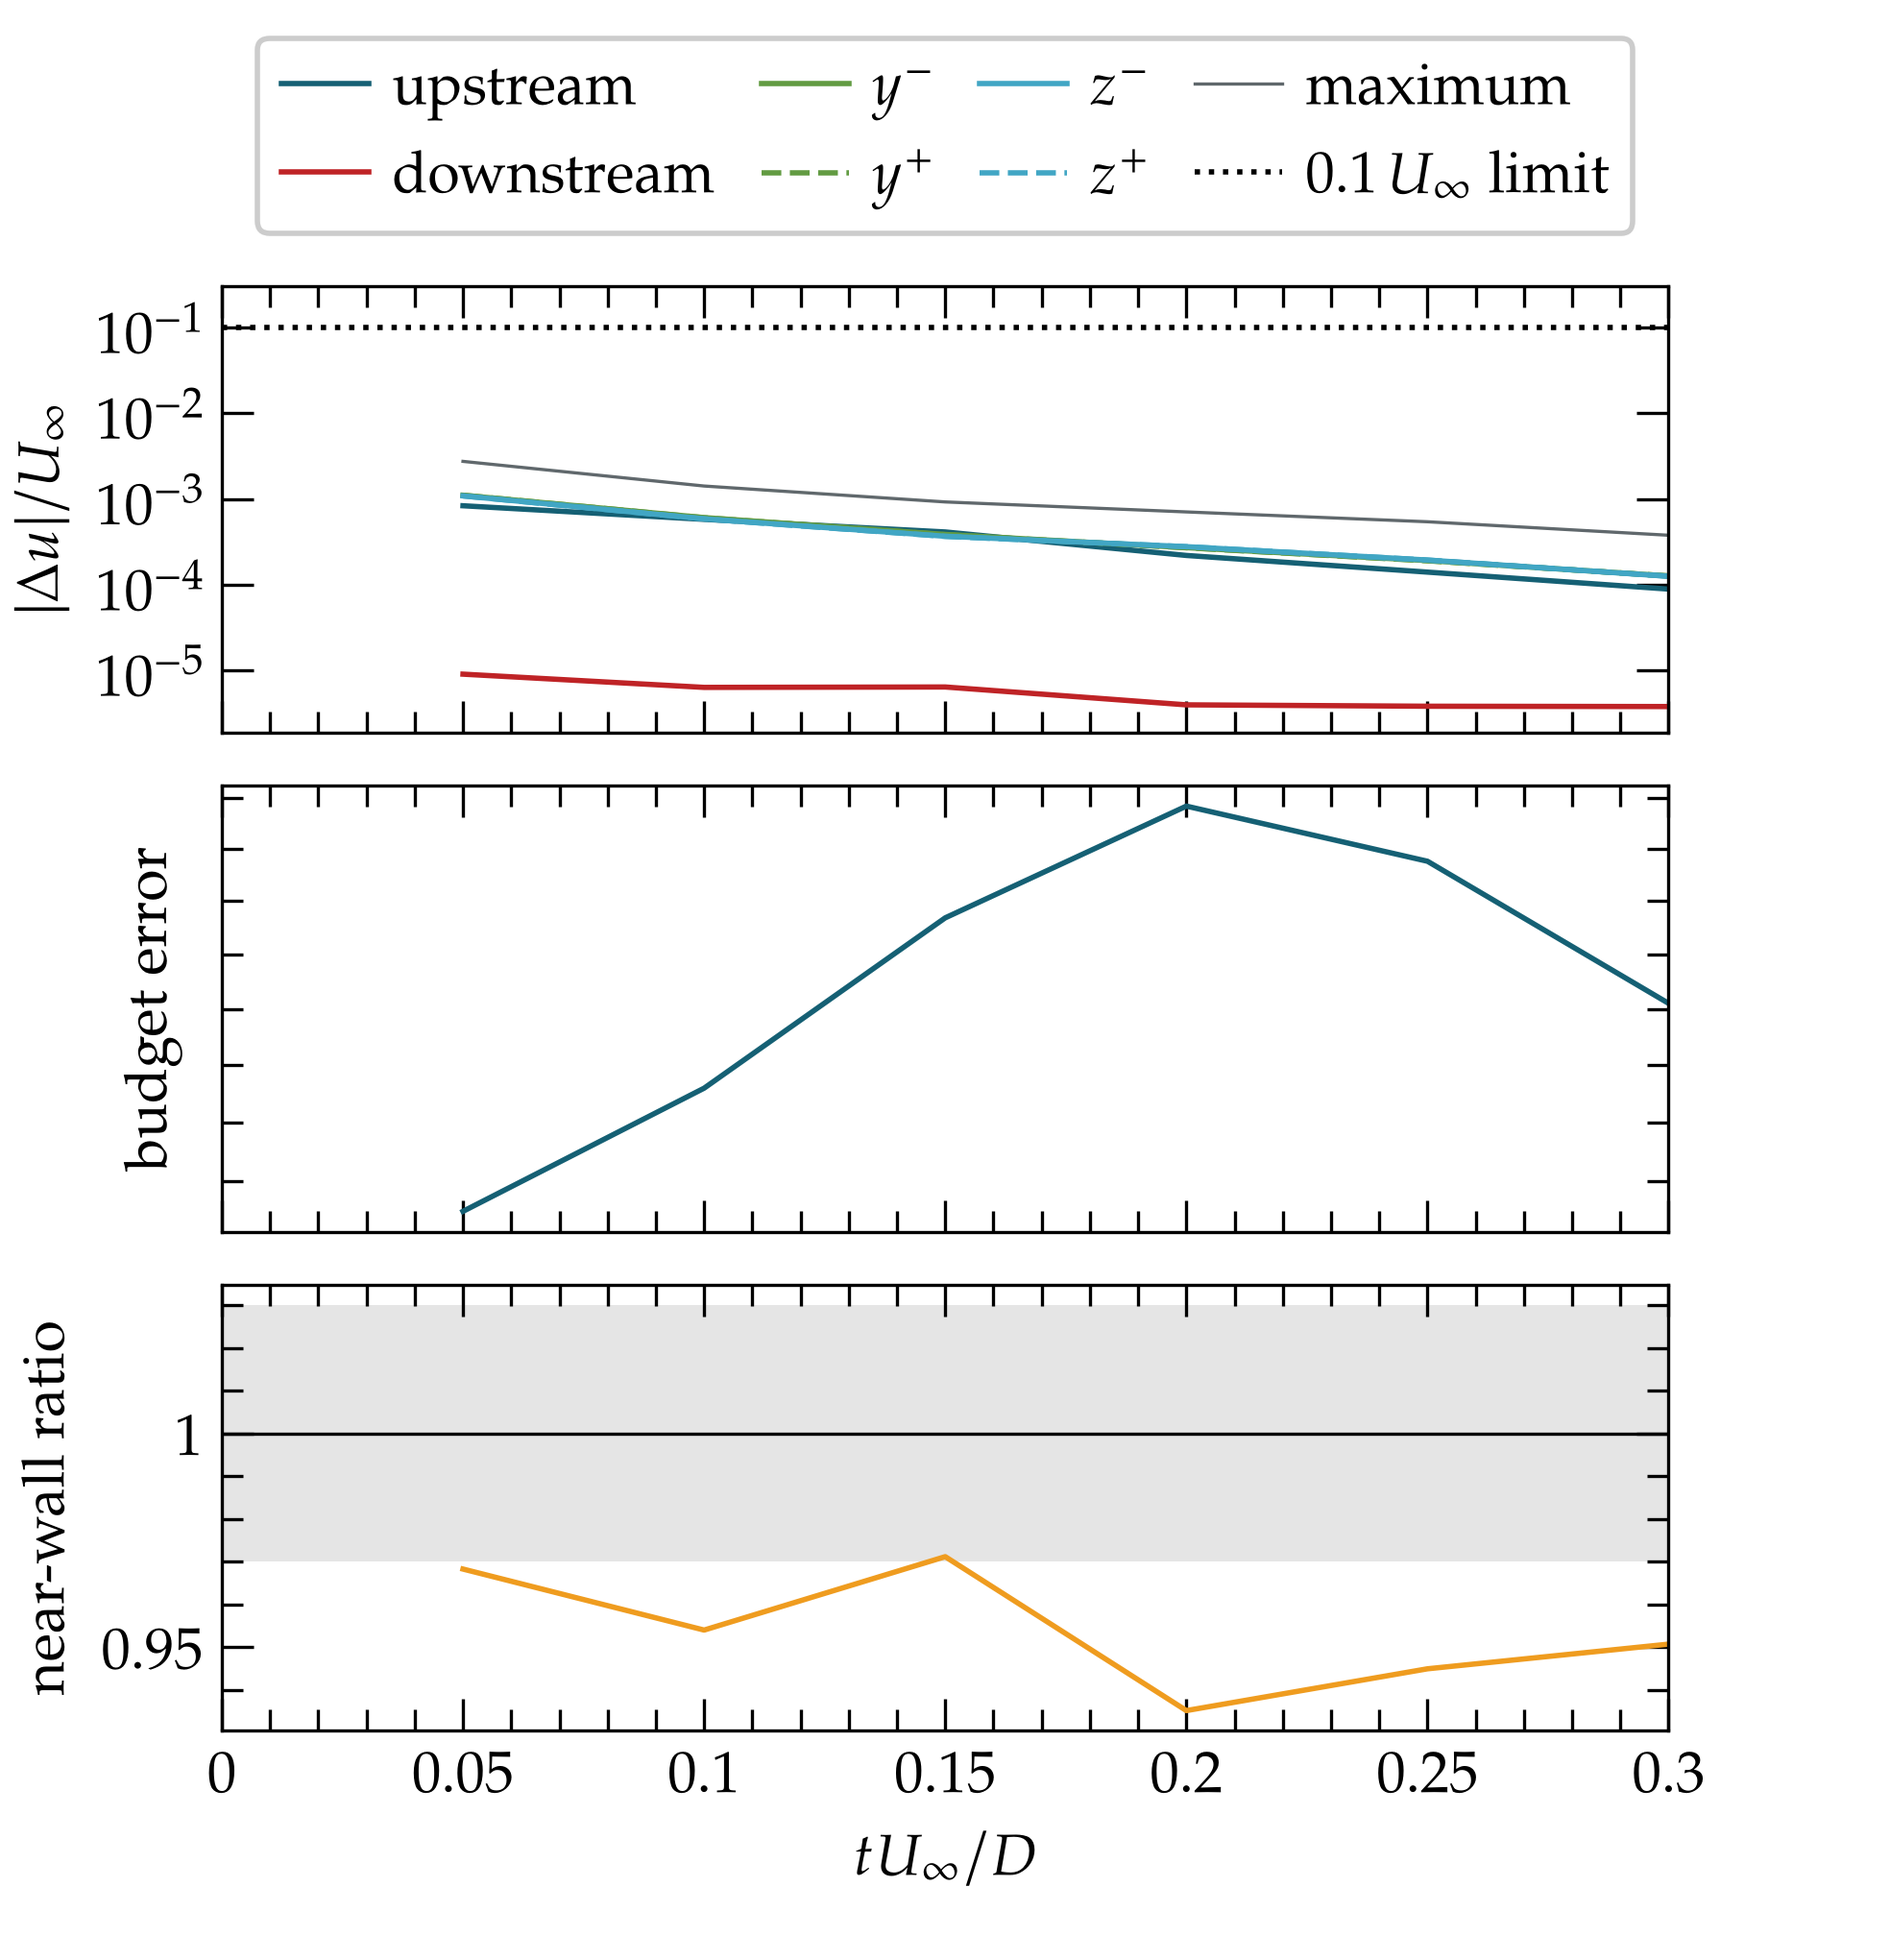
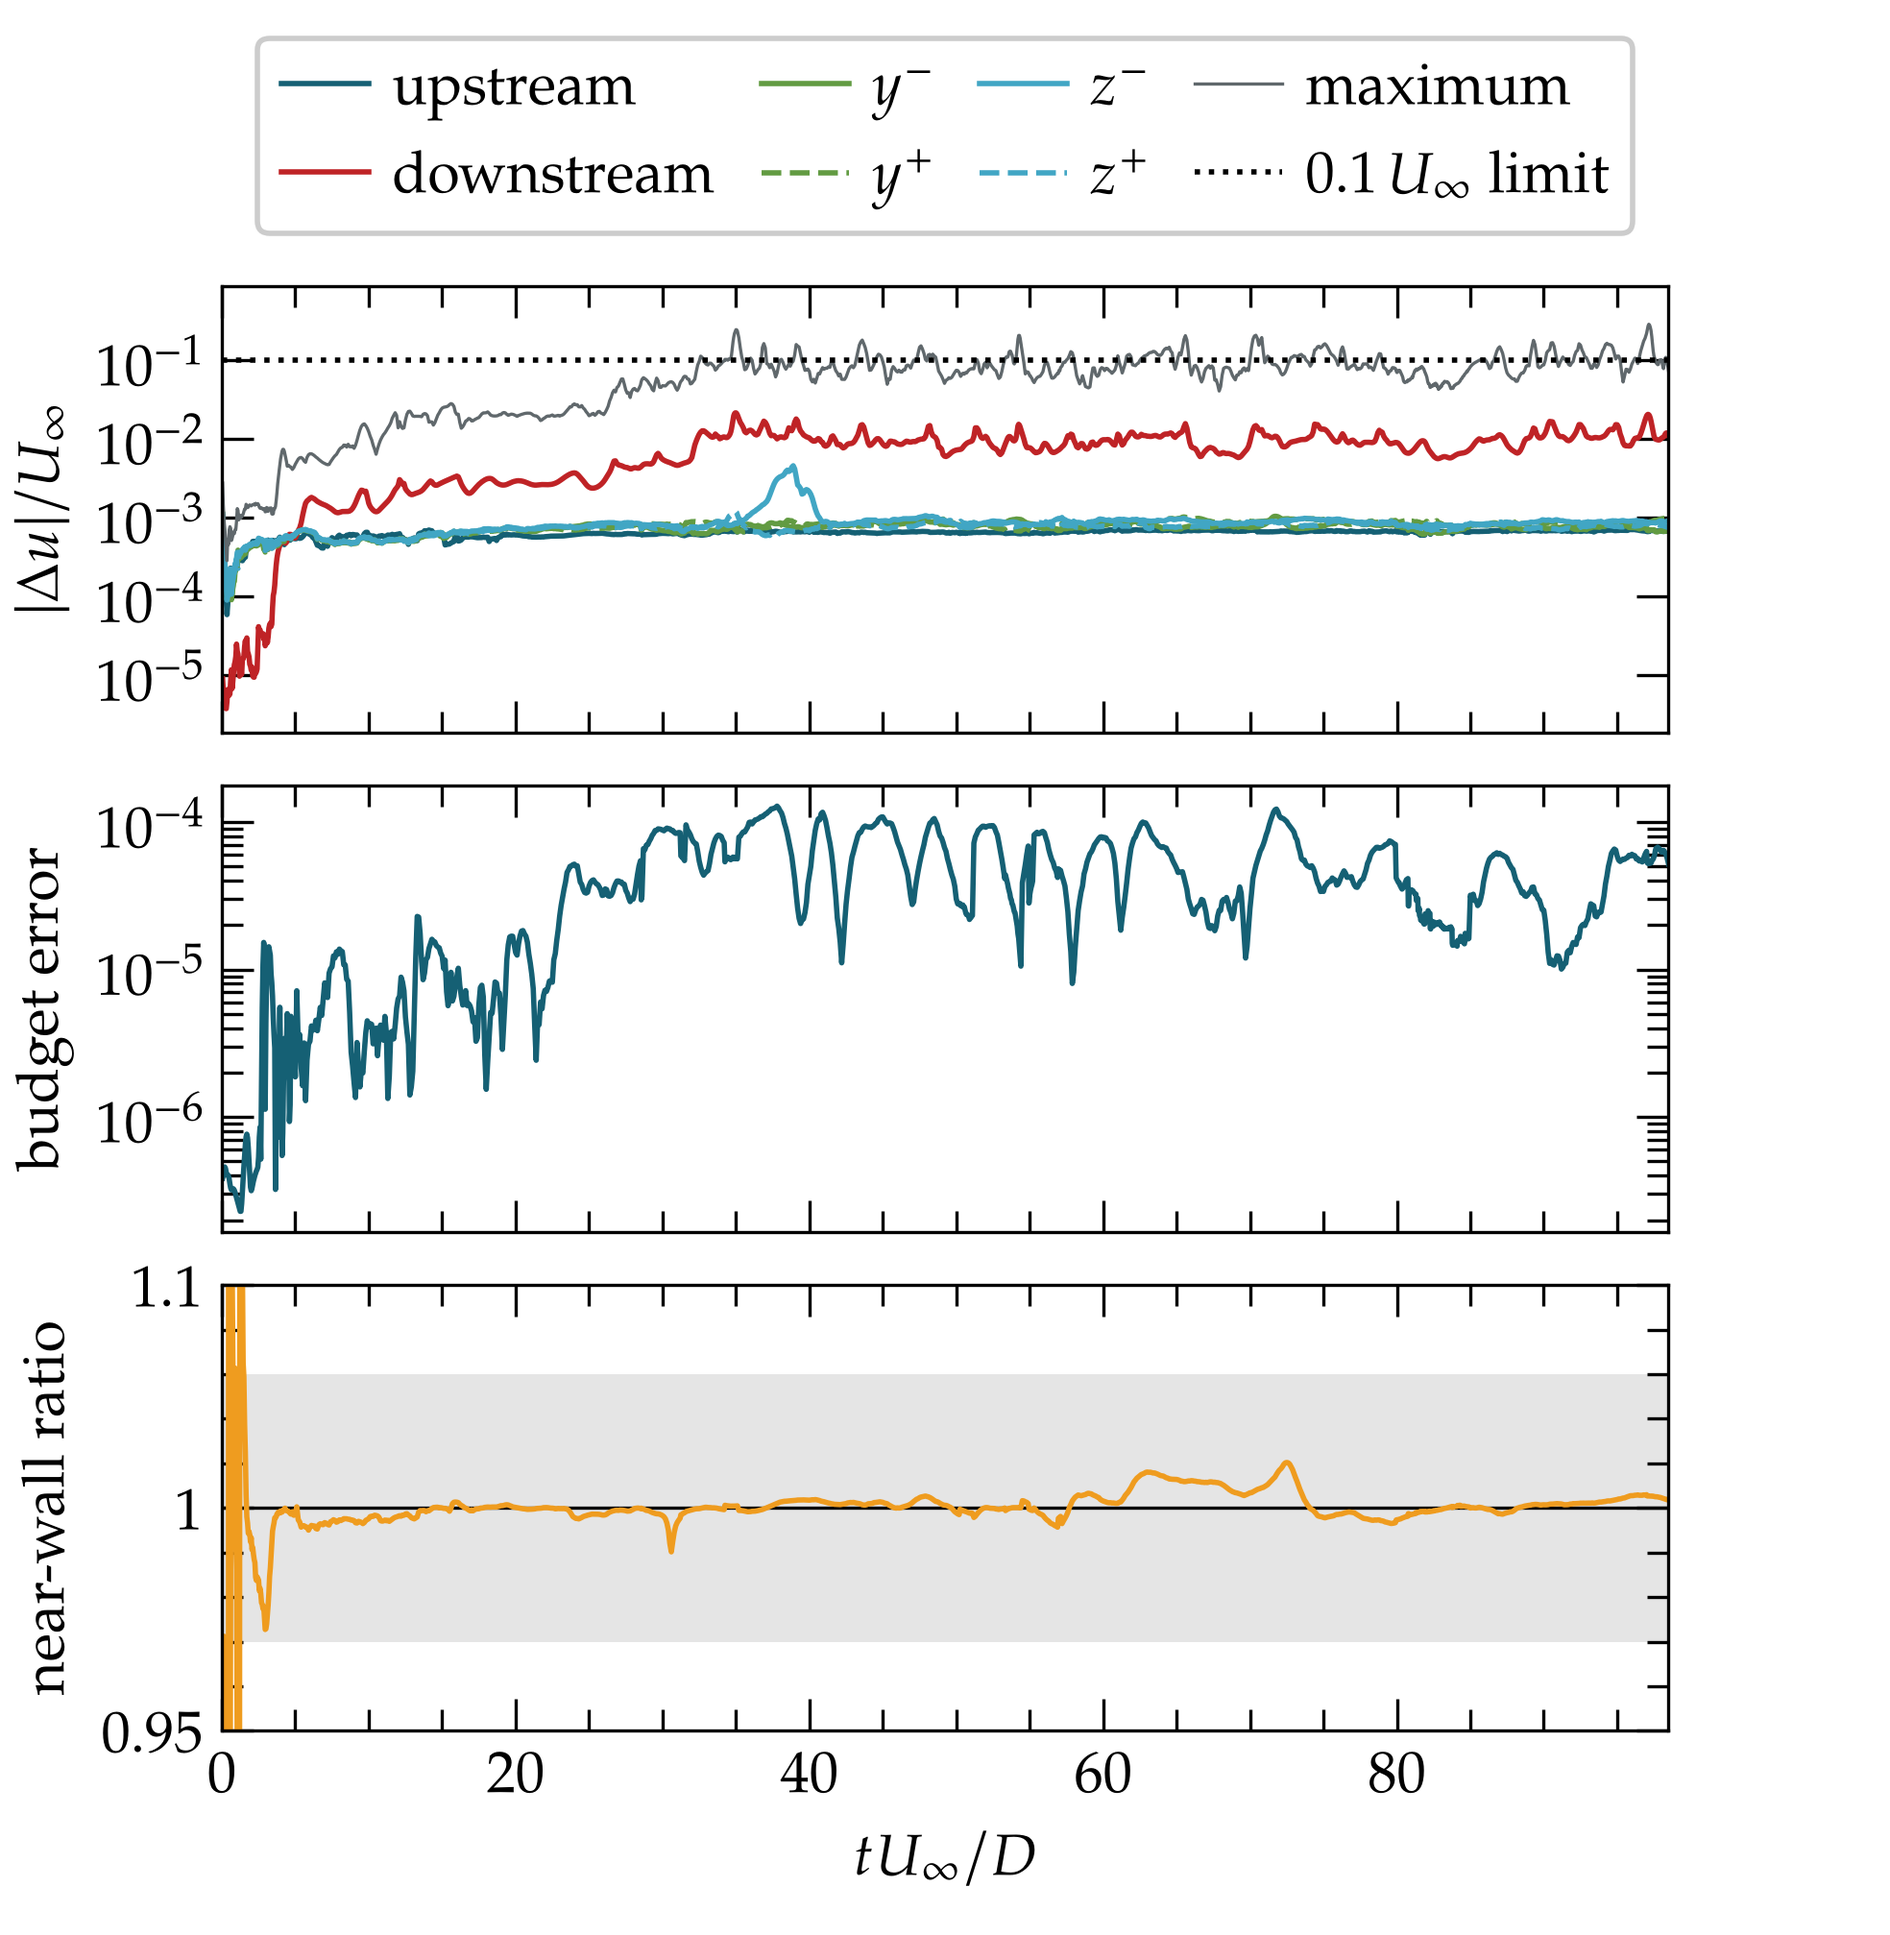
Sync

diff --git a/tutorials/coupled_fvm_vpm/02_cube_flow/assets/plot_comparison.py b/tutorials/coupled_fvm_vpm/02_cube_flow/assets/plot_comparison.py
@@ -43,7 +43,7 @@ FREESTREAM_SPEED = 1.0  # m/s
 TIME_SCALE = FREESTREAM_SPEED / CUBE_SIDE  # 1/s, convective-time scale
 REFERENCE_WIDTH = 12.96  # m, distance between opposite slip walls of the reference domain
 WAKE_BLOCKAGE_FACTOR = 2.5  # Maskell's factor for a bluff body with a separated wake
-STATISTICS_WINDOW = (30.0, 100.0)  # s
+STATISTICS_WINDOW = (30.0, 98.0)  # s
 MINIMUM_STATISTICS_LENGTH = 10.0  # s of the window that both runs must cover
 DRAG_WINDOW = 5.0  # s, windows of the mean-drag error
 FLUCTUATION_WINDOW = 10.0  # s, windows of the rms side-force and lift errors

diff --git a/tutorials/coupled_fvm_vpm/02_cube_flow/assets/plot_fields.py b/tutorials/coupled_fvm_vpm/02_cube_flow/assets/plot_fields.py
@@ -27,7 +27,7 @@ FIGURES = CASE_DIR / "figures"
 CUBE_SIDE = 1.0  # m
 FREESTREAM_SPEED = 1.0  # m/s
 WINDOW = (-1.8, 12.0, -2.0, 2.0)  # m, bounds of the reference and particle slices
-STATISTICS_WINDOW = (30.0, 100.0)  # s, the time-mean fields
+STATISTICS_WINDOW = (30.0, 98.0)  # s, the time-mean fields
 MINIMUM_MEAN_FRAMES = 5  # slices both runs must have in the window before the means are drawn
 
 # Mid-plane slices: reference FVM, coupled FVM in the box, and particles in the outer wake.

diff --git a/tutorials/coupled_fvm_vpm/02_cube_flow/assets/plot_velocity_profiles.py b/tutorials/coupled_fvm_vpm/02_cube_flow/assets/plot_velocity_profiles.py
@@ -15,7 +15,7 @@ from openonda.plotting import centered_subplots_adjust, fit_thesis_y_label_margi
 from openonda.plotting import save_validation_figure, set_thesis_style
 
 CASE_DIR = Path(__file__).absolute().parents[1]
-STATISTICS_WINDOW = (30.0, 100.0)  # s, the averaging window
+STATISTICS_WINDOW = (30.0, 98.0)  # s, the averaging window
 MINIMUM_LENGTH = 10.0  # s of the window that both runs must cover
 CUBE_SIDE = 1.0  # m
 FREESTREAM_SPEED = 1.0  # m/s

diff --git a/tutorials/coupled_fvm_vpm/02_cube_flow/setup.py b/tutorials/coupled_fvm_vpm/02_cube_flow/setup.py
@@ -49,7 +49,7 @@ PARTICLE_LIMIT = 2_000_000
 
 # FVM–VPM transfer and run duration
 FVM_SUBSTEPS = 5  # FVM steps per particle step at the maximum interval
-END_TIME = 100.0  # s, 70 convective times of statistics after the transient of 30
+END_TIME = 98.0  # s, 68 convective times of statistics after the transient of 30
 
 # Output
 FORCE_INTERVAL = 0.1  # s, the maximum coupling interval: outputs must not shorten the interval

diff --git a/tutorials/coupled_fvm_vpm/02_cube_flow/reference_flow/setup.py b/tutorials/coupled_fvm_vpm/02_cube_flow/reference_flow/setup.py
@@ -38,7 +38,7 @@ WAKE = (-2.0, 12.0, -2.0, 2.0, -2.0, 2.0)  # m, wake refinement
 
 # Time integration and output
 CORES = 4
-END_TIME = 100.0
+END_TIME = 98.0
 TIME_STEP_SIZE = 0.005
 MAX_COURANT_NUMBER = 0.5
 OUTPUT_INTERVAL = 2.0  # s, FVM fields

diff --git a/tutorials/coupled_fvm_vpm/02_cube_flow/README.md b/tutorials/coupled_fvm_vpm/02_cube_flow/README.md
@@ -15,7 +15,7 @@ The FVM resolves separation from a no-slip unit cube and its near wake; vortex p
 | Cell and particle spacing | 0.045 m |
 | FVM step; coupling interval | Courant number 0.9, at most 0.02 s; 0.1 s (5 FVM steps), shorter only where the particle CFL number would pass 0.9; every output interval is a multiple of 0.1 s |
 | Coupling iterations | Up to 6 per interval, ended by the transfer tolerances |
-| Statistics window | $30\le t\le100$ s |
+| Statistics window | $30\le t\le98$ s |
 
 ## Physics and numerical model
 
@@ -48,7 +48,7 @@ The slip walls of the reference domain speed up the stream at the cube; the coup
 | `figures/interface_measures` | Per coupling interval: rms velocity mismatch per FVM box side and its maximum, FVM budget error, near-wall circulation ratio with the 0.97–1.03 band |
 | `figures/velocity_profiles` | Time-mean streamwise velocity and transverse-velocity fluctuation |
 | `figures/velocity_fields`, `figures/vorticity_fields` | Mid-plane reference, coupled and difference fields |
-| `figures/mean_velocity_field`, `figures/mean_vorticity_field` | The same, averaged over $30\le t\le100$ s |
+| `figures/mean_velocity_field`, `figures/mean_vorticity_field` | The same, averaged over $30\le t\le98$ s |
 | `figures/coupling_cost` | Wall time by solver part and particle count |
 | `figures/comparison_summary.csv` | Statistics, errors, interface measures and wall time per flow time of the run and the reference |
 | `assets/cube_flow.gif` | Mid-plane and particle vorticity with drag history, from the finished run |
